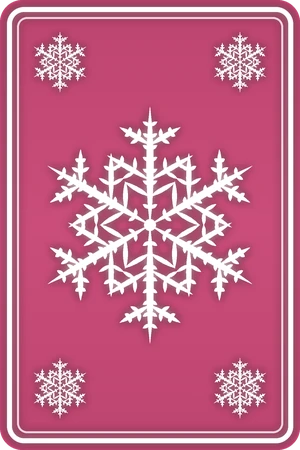
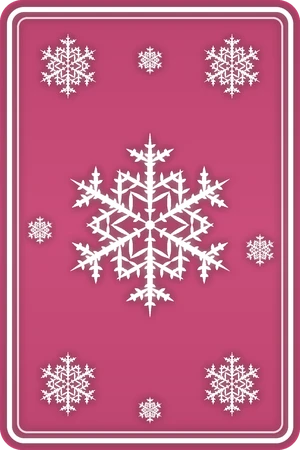
雪の結晶の裏面をB案（四隅そろえ）に決定
Claude-Session: https://claude.ai/code/session_01Py86tRpSHYAiR5yGxFmHgx

diff --git a/sw.js b/sw.js
@@ -1,4 +1,4 @@
-const CACHE='card-v78';
+const CACHE='card-v79';
 const FILES=['./','index.html','word.js','sfx.js','bgm/day.mp3','bgm/night.mp3','bgm/classic.mp3','manifest.json','back1.webp','back2.webp','back3.webp','back4.webp','snow_j.webp','snow_g.webp','snow_h.webp','snow_i.webp','icon-192.png','icon-512.png'];
 self.addEventListener('install',e=>{e.waitUntil(caches.open(CACHE).then(c=>c.addAll(FILES)));self.skipWaiting()});
 self.addEventListener('activate',e=>{e.waitUntil(caches.keys().then(ks=>Promise.all(ks.filter(k=>k.startsWith('card-')&&k!==CACHE).map(k=>caches.delete(k)))).then(()=>self.clients.claim()))});
